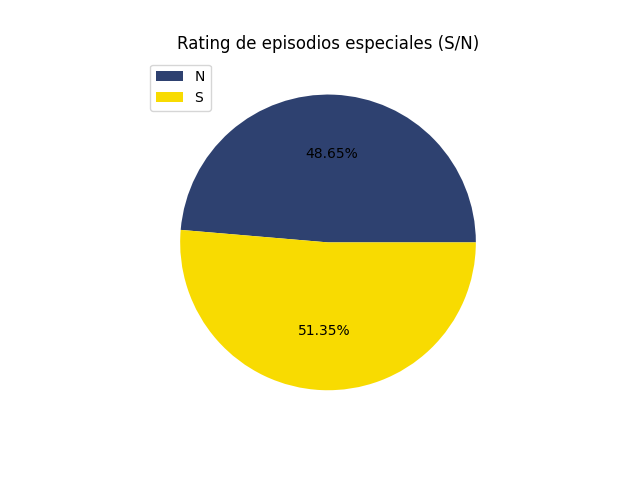
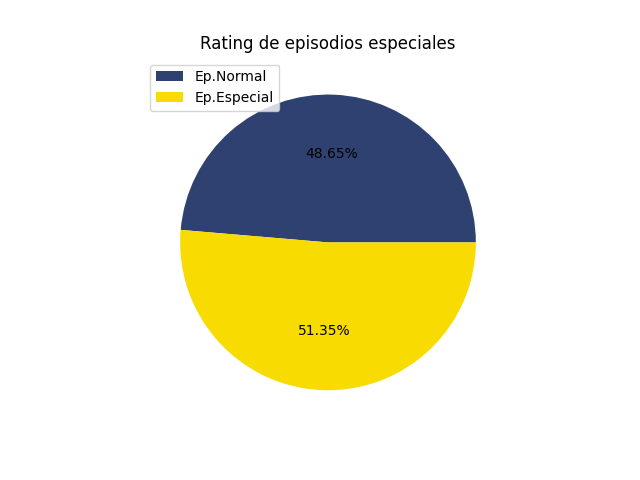
cambio final de grafico 5

Changed region(s): [[0.2812, 0.0625, 0.75, 0.25]]

diff --git a/main.py b/main.py
@@ -123,7 +123,7 @@ df_h5 = (df_friends.groupby("special_episode")["rating"].mean().reset_index())
     plt.close para no se sobreescriben los gráficos.
 """
 plt.pie(df_h5["rating"], autopct="%1.2f%%", colors=["#2E4170", "#F8DB01"])
-plt.title("Rating de episodios especiales (S/N)")
-plt.legend("NS", loc="upper left")
+plt.title("Rating de episodios especiales")
+plt.legend(labels=["Ep.Normal", "Ep.Especial"], loc="upper left")
 plt.savefig("img/grafico_h5.png")
 plt.close()
